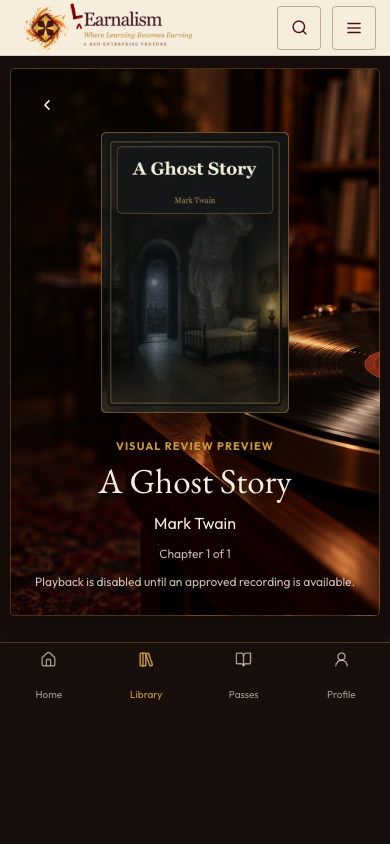
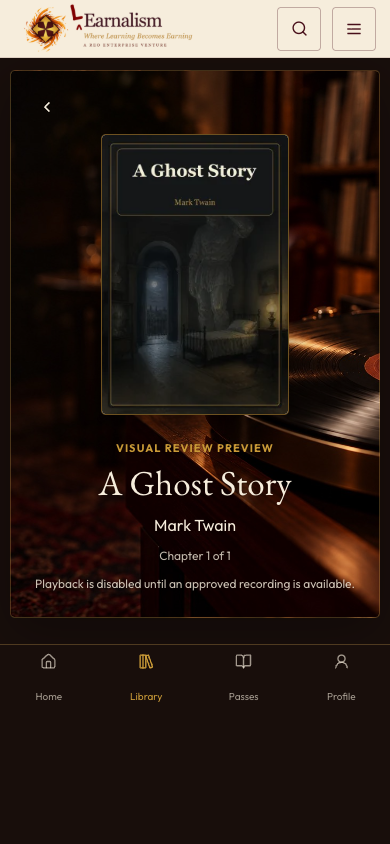
Fix Listener mobile masthead clipping

diff --git a/frontend/src/experiences-v2/listener/listener-v2.css b/frontend/src/experiences-v2/listener/listener-v2.css
@@ -138,7 +138,7 @@
   .listener-v2__side { padding: 14px; }
 }
 @media (max-width: 767px) {
-  .listener-v2 .experience-header, .listener-v2 .experience-header--compact { height: 56px; min-height: 56px; padding-inline: 14px; }
+  .listener-v2 .experience-header, .listener-v2 .experience-header--compact { height: 58px; min-height: 58px; padding-inline: 14px; }
   .listener-v2__layout { display: block; padding: 12px 14px 26px; }
   .listener-v2__main { display: flex; min-height: 0; flex-direction: column; align-items: center; padding: 14px 18px 24px; border-radius: 5px; background-position: 63% center; }
   .listener-v2__mobile-top { display: flex; width: 100%; min-height: 44px; align-items: center; justify-content: flex-start; padding: 0; }

diff --git a/frontend/uat/evidence/task-a-reader-listener/design-qa.md b/frontend/uat/evidence/task-a-reader-listener/design-qa.md
@@ -25,7 +25,7 @@ Both routes were captured at every requested CSS viewport: 1600 × 1000, 1440 ×
 
[4 lines of base64/hex data omitted]
 
 ## Verification
 
@@ -35,4 +35,4 @@ Both routes were captured at every requested CSS viewport: 1600 × 1000, 1440 ×
 - `git diff --check`: passed.
 - Full visual smoke report after the 58 px correction: `visual-smoke-report.json`, 16/16 routes PASS. Refreshed viewport screenshots and `screenshots.sha256` are included.
 
-An exact-head GitHub owner-review artifact was published for the prior candidate `8d44970ccabe8146c1b3538fd4ae1dd18630f908`: artifact `pr473-fresh-mobile-header-menu-review-8d44970ccabe8146c1b3538fd4ae1dd18630f908` (run 36685329332). A fresh exact-head review is required after this corrective commit. The current-head seamless-brand workflow exposed a Reader lockup bounding box 0.69 px above the top edge at 390 px and 320 px at 100% zoom, caused by the 56 px Reader masthead being shorter than the canonical lockup. The masthead now uses 58 px; the same high-zoom gate passes all 23 assertions against the corrected fixture build. Current main used the shared 72 px mobile masthead, so this was a Task A regression. This is not a production deployment or release approval; audiobook release remains fail-closed.
+An exact-head GitHub owner-review artifact was published for the prior candidate `8d44970ccabe8146c1b3538fd4ae1dd18630f908`: artifact `pr473-fresh-mobile-header-menu-review-8d44970ccabe8146c1b3538fd4ae1dd18630f908` (run 36685329332). Exact-head review will be regenerated for the corrected candidate. The current-head seamless-brand workflow exposed Reader and Listener lockup bounding boxes 0.69 px above the top edge at mobile 100% zoom, caused by their 56 px mastheads being shorter than the 56.39 px canonical lockup. Both mobile mastheads now use 58 px. The Reader high-zoom gate passes all 23 assertions, and the experience/footer zoom gate passes all 24 assertions against corrected fixture builds. Current main used the shared 72 px mobile masthead, so both were Task A regressions. This is not a production deployment or release approval; audiobook release remains fail-closed.
